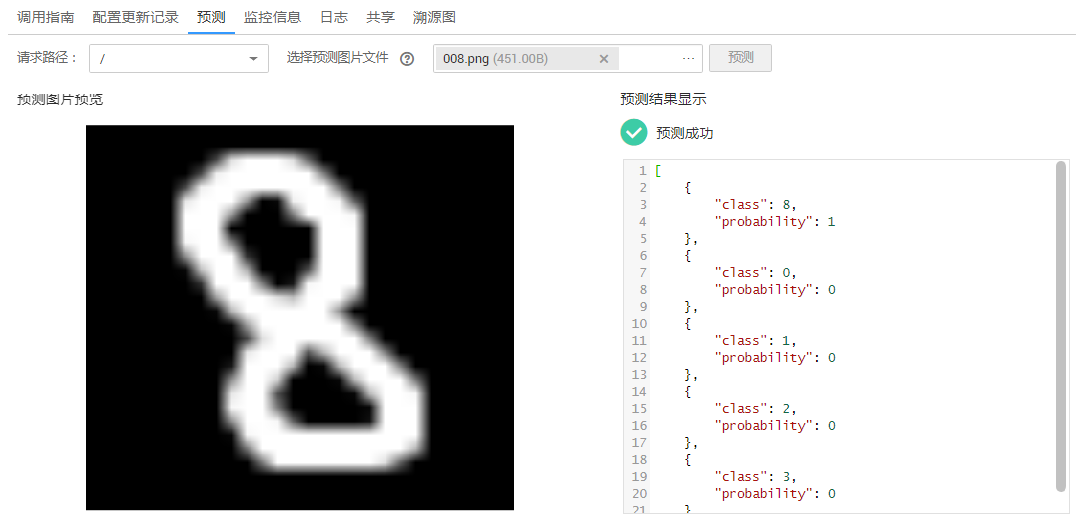
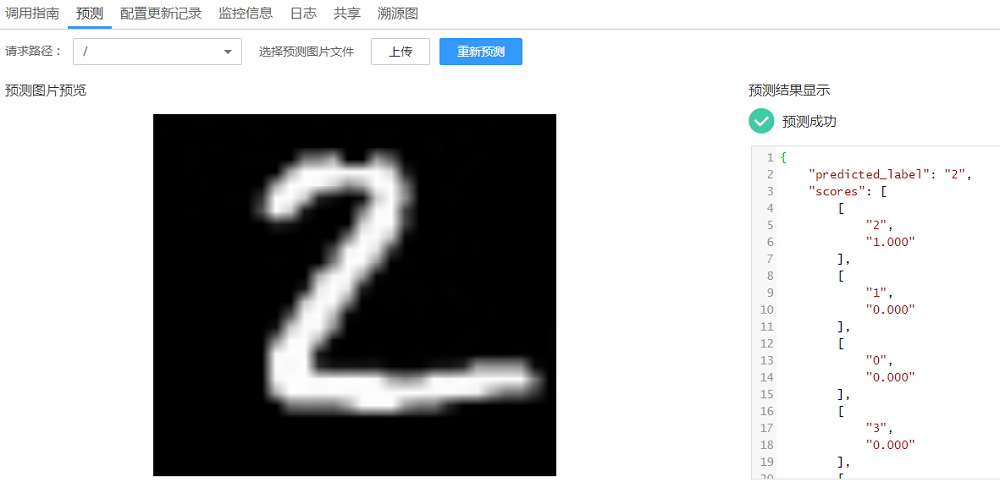
update mnist (#122)
* Delete 预测结果.png

* Add files via upload

* Delete 预测结果.png

* Add files via upload

* Update customize_service.py

* Update customize_service.py

* Delete 预测结果.png

* Update 使用MoXing开发训练脚本-实现手写数字识别.md

* Add files via upload

diff --git a/offical_examples/Using_MoXing_to_Create_a_MNIST_Dataset_Recognition_Application/codes/customize_service.py b/offical_examples/Using_MoXing_to_Create_a_MNIST_Dataset_Recognition_Application/codes/customize_service.py
@@ -1,6 +1,5 @@
 from PIL import Image
 import numpy as np
-import tensorflow as tf
 from model_service.tfserving_model_service import TfServingBaseService
 
 
@@ -20,7 +19,13 @@ class mnist_service(TfServingBaseService):
   def _postprocess(self, data):
 
     outputs = {}
-    logits = data['logits'][0]
+    logits = data['scores'][0]
     label = logits.index(max(logits))
-    outputs['predict label'] = label
+    logits = ['%.3f' % logit for logit in logits]
+    outputs['predicted_label'] = str(label)
+    label_list = [str(label) for label in list(range(10))]
+    scores = dict(zip(label_list, logits))
+    scores = sorted(scores.items(), key=lambda item: item[1], reverse=True)[:5]
+    outputs['scores'] = scores
+  
     return outputs

diff --git a/offical_examples/Using_TensorFlow_to_Create_a_MNIST_Dataset_Recognition_Application/codes/customize_service.py b/offical_examples/Using_TensorFlow_to_Create_a_MNIST_Dataset_Recognition_Application/codes/customize_service.py
@@ -1,6 +1,5 @@
 from PIL import Image
 import numpy as np
-import tensorflow as tf
 from model_service.tfserving_model_service import TfServingBaseService
 
 
@@ -22,5 +21,11 @@ class mnist_service(TfServingBaseService):
     outputs = {}
     logits = data['scores'][0]
     label = logits.index(max(logits))
-    outputs['predict label'] = label
+    logits = ['%.3f' % logit for logit in logits]
+    outputs['predicted_label'] = str(label)
+    label_list = [str(label) for label in list(range(10))]
+    scores = dict(zip(label_list, logits))
+    scores = sorted(scores.items(), key=lambda item: item[1], reverse=True)[:5]
+    outputs['scores'] = scores
+  
     return outputs

diff --git a/offical_examples/Using_MoXing_to_Create_a_MNIST_Dataset_Recognition_Application/使用MoXing开发训练脚本-实现手写数字识别.md b/offical_examples/Using_MoXing_to_Create_a_MNIST_Dataset_Recognition_Application/使用MoXing开发训练脚本-实现手写数字识别.md
@@ -102,7 +102,7 @@
 2.  在线服务详情页面中，单击“预测“页签，进入预测页面。
 3.  在“选择预测图片文件“右侧，单击“...“按钮，上传一张黑底白字的图片，然后单击“预测“。
 
-    预测完成后，预测结果显示区域将展示预测结果，根据预测结果内容，可识别出此图片的数字是“8“的概率为“1“。
+    预测完成后，预测结果显示区域将展示预测结果，根据预测结果内容，可识别出此图片的数字是“2“的概率为“1“。
 
     >![](public_sys-resources/icon-note.gif) **说明：**   
     >-   由于推理代码和配置文件中已指定图片要求，用于预测的图片，大小必须为“28px\*28px“，图片格式必须为“jpg“，且图片必须是黑底白字。  
